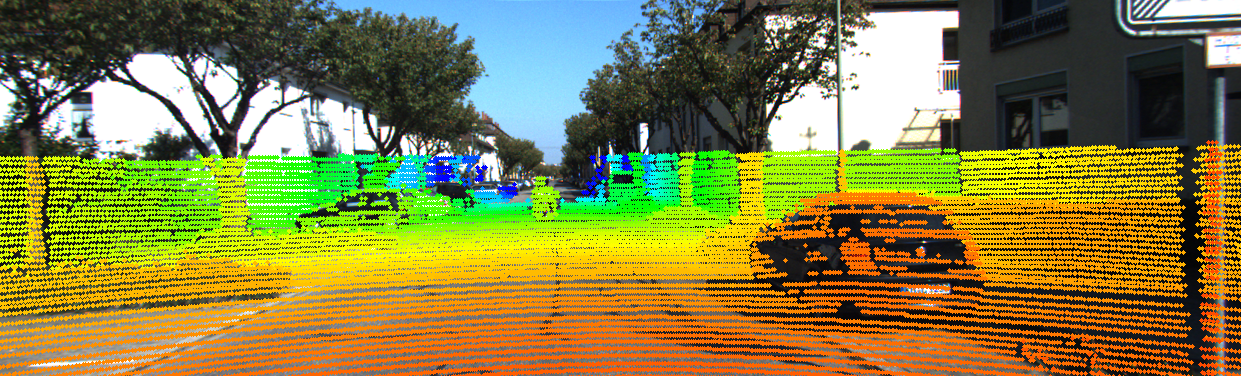
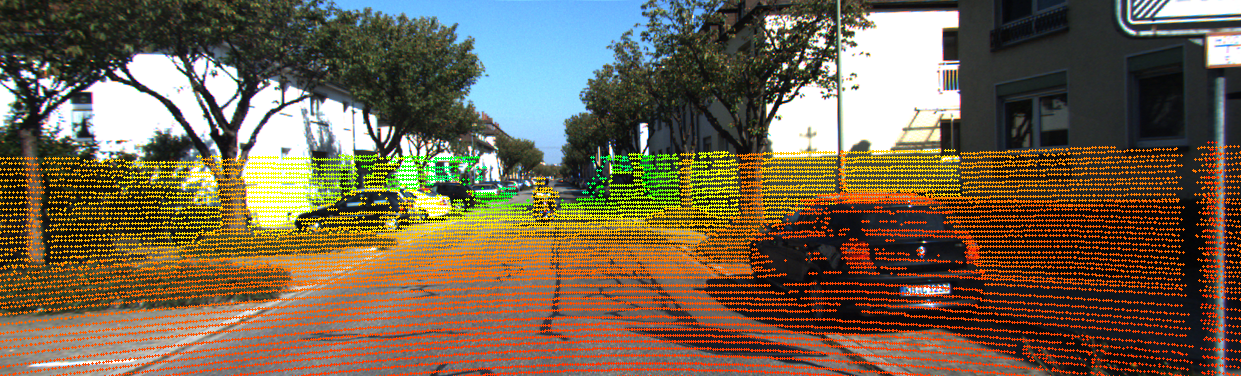
extract visualisation part

diff --git a/projection/project.py b/projection/project.py
@@ -3,11 +3,6 @@ import numpy as np
 from pykitti import odometry
 
 
-def depth_color(value, minimum=0, maximum=120):
-    value = np.clip(value, minimum, maximum)
-    return ((value - minimum) / (maximum - minimum) * 120).astype(np.uint8)
-
-
 def in_view_points(origin_points, v_fov, h_fov):
     x = origin_points[:, 0]
     y = origin_points[:, 1]
@@ -28,10 +23,7 @@ def in_view_points(origin_points, v_fov, h_fov):
     one = np.full((1, xyz.shape[1]), 1)
     xyz = np.vstack((xyz, one))
 
-    dist = np.sqrt(x ** 2 + y ** 2 + z ** 2)
-    dist_lim = dist[mask]
-    xyz_color = depth_color(dist_lim, 0, 70)
-    return xyz, xyz_color
+    return xyz
 
 
 def points_to_image_project(sequence, index, v_fov, h_fov):
@@ -49,45 +41,13 @@ def points_to_image_project(sequence, index, v_fov, h_fov):
     velo_to_camera = sequence.calib.T_cam2_velo
     camera_to_image = sequence.calib.K_cam2
 
-    xyz_velo, xyz_color = in_view_points(origin_points, v_fov, h_fov)
+    xyz_velo = in_view_points(origin_points, v_fov, h_fov)
 
     xyz_camera = np.matmul(velo_to_camera, xyz_velo)
     xyz_camera = np.delete(xyz_camera, 3, axis=0)
 
-    xyz_camera = np.matmul(camera_to_image, xyz_camera)
-
-    xy_image = xyz_camera[::] / xyz_camera[::][2]
+    xy_image = np.matmul(camera_to_image, xyz_camera)
+    xy_image = xy_image[::] / xy_image[::][2]
     xy_image = np.delete(xy_image, 2, axis=0)
 
-    return xyz_velo, xy_image, xyz_color
-
-
-if __name__ == '__main__':
-    import os
-    from preparation.odometryDataset import Dataset
-
-    calib = os.path.join(os.path.pardir, os.path.pardir, "dataset", "calibration")
-    color = os.path.join(os.path.pardir, os.path.pardir, "dataset", "color")
-    velodyne = os.path.join(os.path.pardir, os.path.pardir, "dataset", "velodyne")
-
-    with Dataset.open_odometry(calib, color=color, velodyne=velodyne) as dataset:
-        seq = dataset.get_sequence("00")
-        points, color = points_to_image_project(seq, 0, (-24.9, 2.0), (-45, 45))
-        print("COLOR!")
-        print(color)
-
-        img_np = np.array(seq.get_cam2(0))
-        img_cv2 = cv2.cvtColor(img_np, cv2.COLOR_RGB2BGR)
-
-        cv2.imshow("img", img_cv2)
-        cv2.waitKey(0)
-
-        hsv_image = cv2.cvtColor(img_cv2, cv2.COLOR_BGR2HSV)
-        for i in range(points.shape[1]):
-            cv2.circle(hsv_image, (np.int32(points[0][i]), np.int32(points[1][i])), 2, (int(color[i]), 255, 255), -1)
-
-        final = cv2.cvtColor(hsv_image, cv2.COLOR_HSV2BGR)
-        cv2.imshow("img", final)
-        cv2.waitKey(0)
-
-        print("SUCCESS")
+    return xyz_velo, xy_image

diff --git a/main.py b/main.py
@@ -1,12 +1,29 @@
 import os
 import cv2
+import numpy as np
 
 from preparation.odometryDataset import Dataset
+from projection.project import points_to_image_project
+from visualisation.image import show_image, plot_point_on_image
 
 # The Path to the downloaded odometry file
 calibration = os.path.join(os.path.pardir, "dataset", "calibration")
 color = os.path.join(os.path.pardir, "dataset", "color")
 velodyne = os.path.join(os.path.pardir, "dataset", "velodyne")
 
+# Field of view
+v_fov = (-24.9, 2.0)
+h_fov = (-45, 45)
+
 if __name__ == '__main__':
-    pass
+    with Dataset.open_odometry(calibration, color=color,  velodyne=velodyne) as dataset:
+        seq = dataset.get_sequence("00")
+        index = 0
+
+        img = np.array(seq.get_cam2(index))
+        img = cv2.cvtColor(img, cv2.COLOR_RGB2BGR)
+
+        xyz_selected, xy_projected = points_to_image_project(seq, index, v_fov, h_fov)
+
+        show_image("Projected Image", plot_point_on_image(img, xyz_selected, xy_projected))
+

diff --git a/visualisation/image.py b/visualisation/image.py
@@ -1,0 +1,30 @@
+import cv2
+import numpy as np
+
+
+def distance_color(value, minimum=0, maximum=120):
+    value = np.clip(value, minimum, maximum)
+    return ((value - minimum) / (maximum - minimum) * 120).astype(np.uint8)
+
+
+def plot_point_on_image(image, xyz_origin, xy_projected):
+    hsv_image = cv2.cvtColor(image, cv2.COLOR_BGR2HSV)
+
+    x = xyz_origin[0, :]
+    y = xyz_origin[1, :]
+    z = xyz_origin[2, :]
+    distance = np.sqrt(x ** 2 + y ** 2 + z ** 2)
+    color = distance_color(distance)
+
+    for i in range(xy_projected.shape[1]):
+        coord_x = np.int32(xy_projected[0][i])
+        coord_y = np.int32(xy_projected[1][i])
+        cv2.circle(hsv_image, (coord_x, coord_y), 1, (int(color[i]), 255, 255), -1)
+
+    result = cv2.cvtColor(hsv_image, cv2.COLOR_HSV2BGR)
+    return result
+
+
+def show_image(title, image):
+    cv2.imshow(title, image)
+    cv2.waitKey(0)
